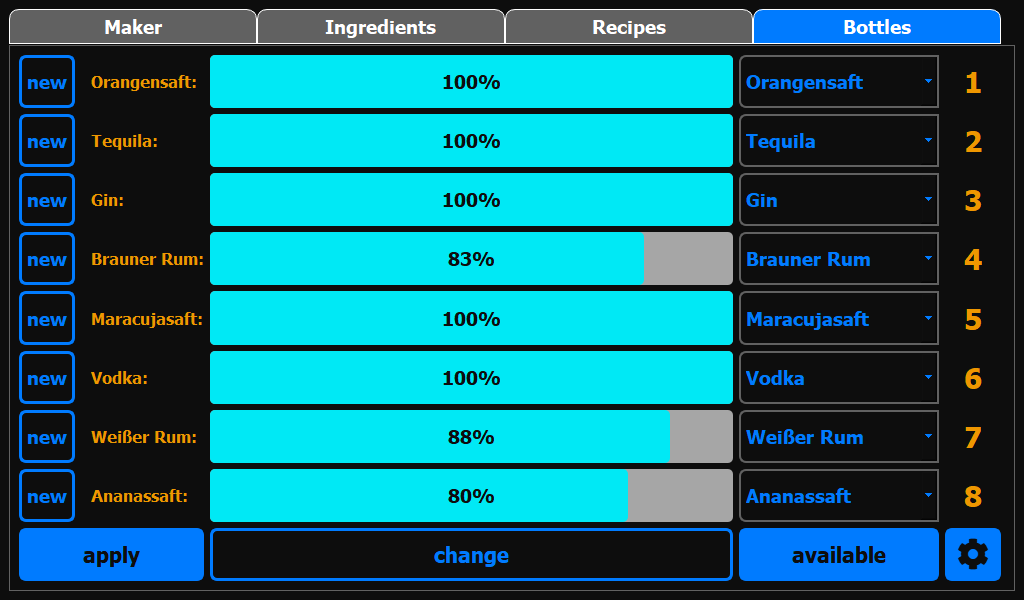
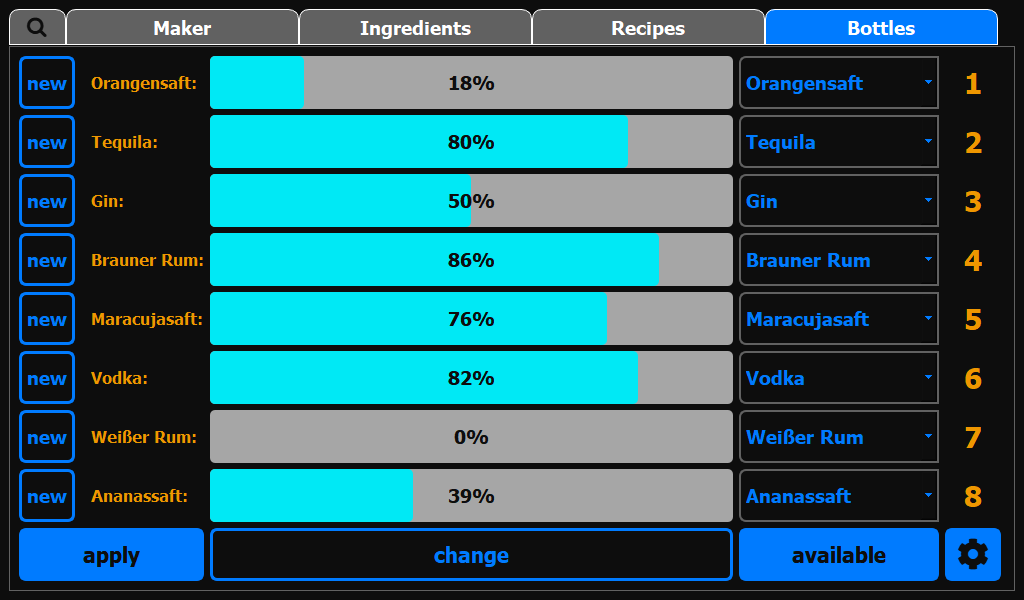
Update images

diff --git a/docs/about.md b/docs/about.md
@@ -22,6 +22,11 @@ The interface was programmed with PyQt5 for the users to easily interact with Co
   <figcaption>The Maker GUI</figcaption>
 </figure>
 
+<figure markdown>
+  ![Selection](pictures/Selection_ui.png)
+  <figcaption>The Selection GUI</figcaption>
+</figure>
+
 This is the main window of the application and the window your guest will interact with.
 They can choose a cocktail of their choice, a crossed glass at the end indicates that there is also a virgin option of this cocktail.
 The cocktail data is displayed after selection.

diff --git a/readme.md b/readme.md
@@ -95,6 +95,8 @@ The Maker GUI:
 
 <img src="docs/pictures/Main_ui.png" alt="Maker" width="600"/>
 
+<img src="docs/pictures/Selection_ui.png" alt="Maker" width="600"/>
+
 The Ingredient GUI:
 
 <img src="docs/pictures/Ingredients_ui.png" alt="Ingredient" width="600"/>
